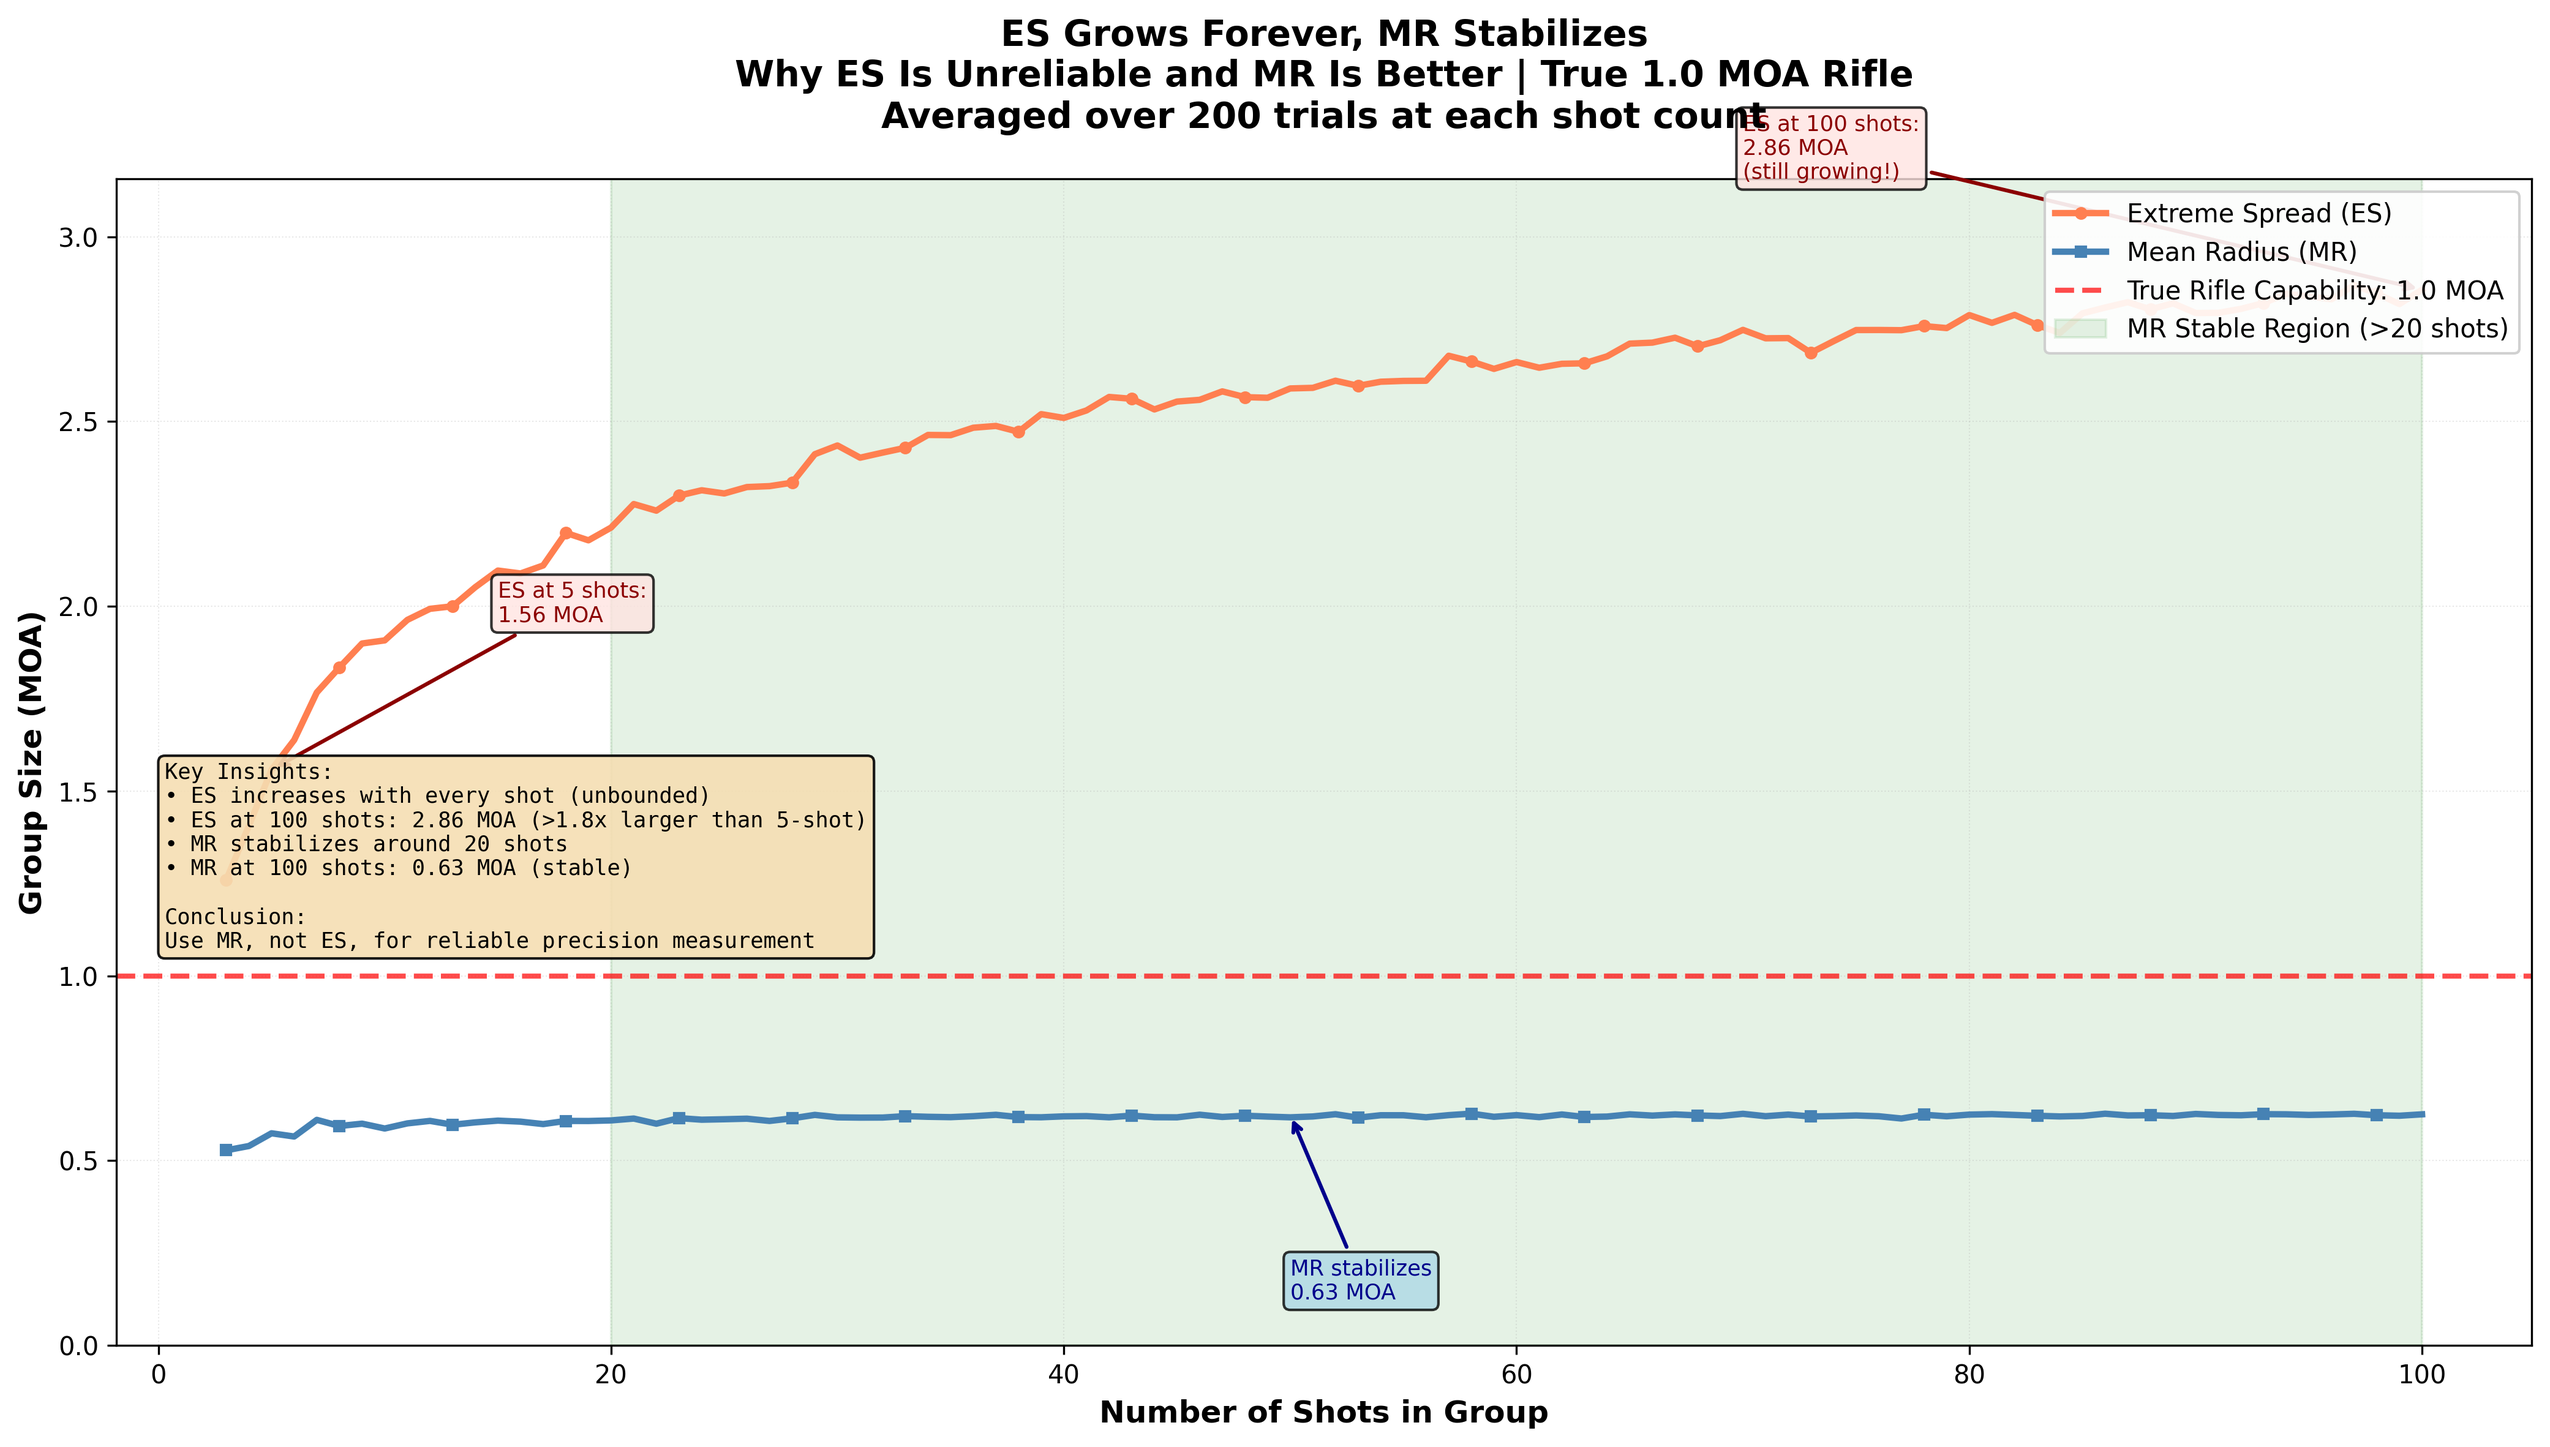
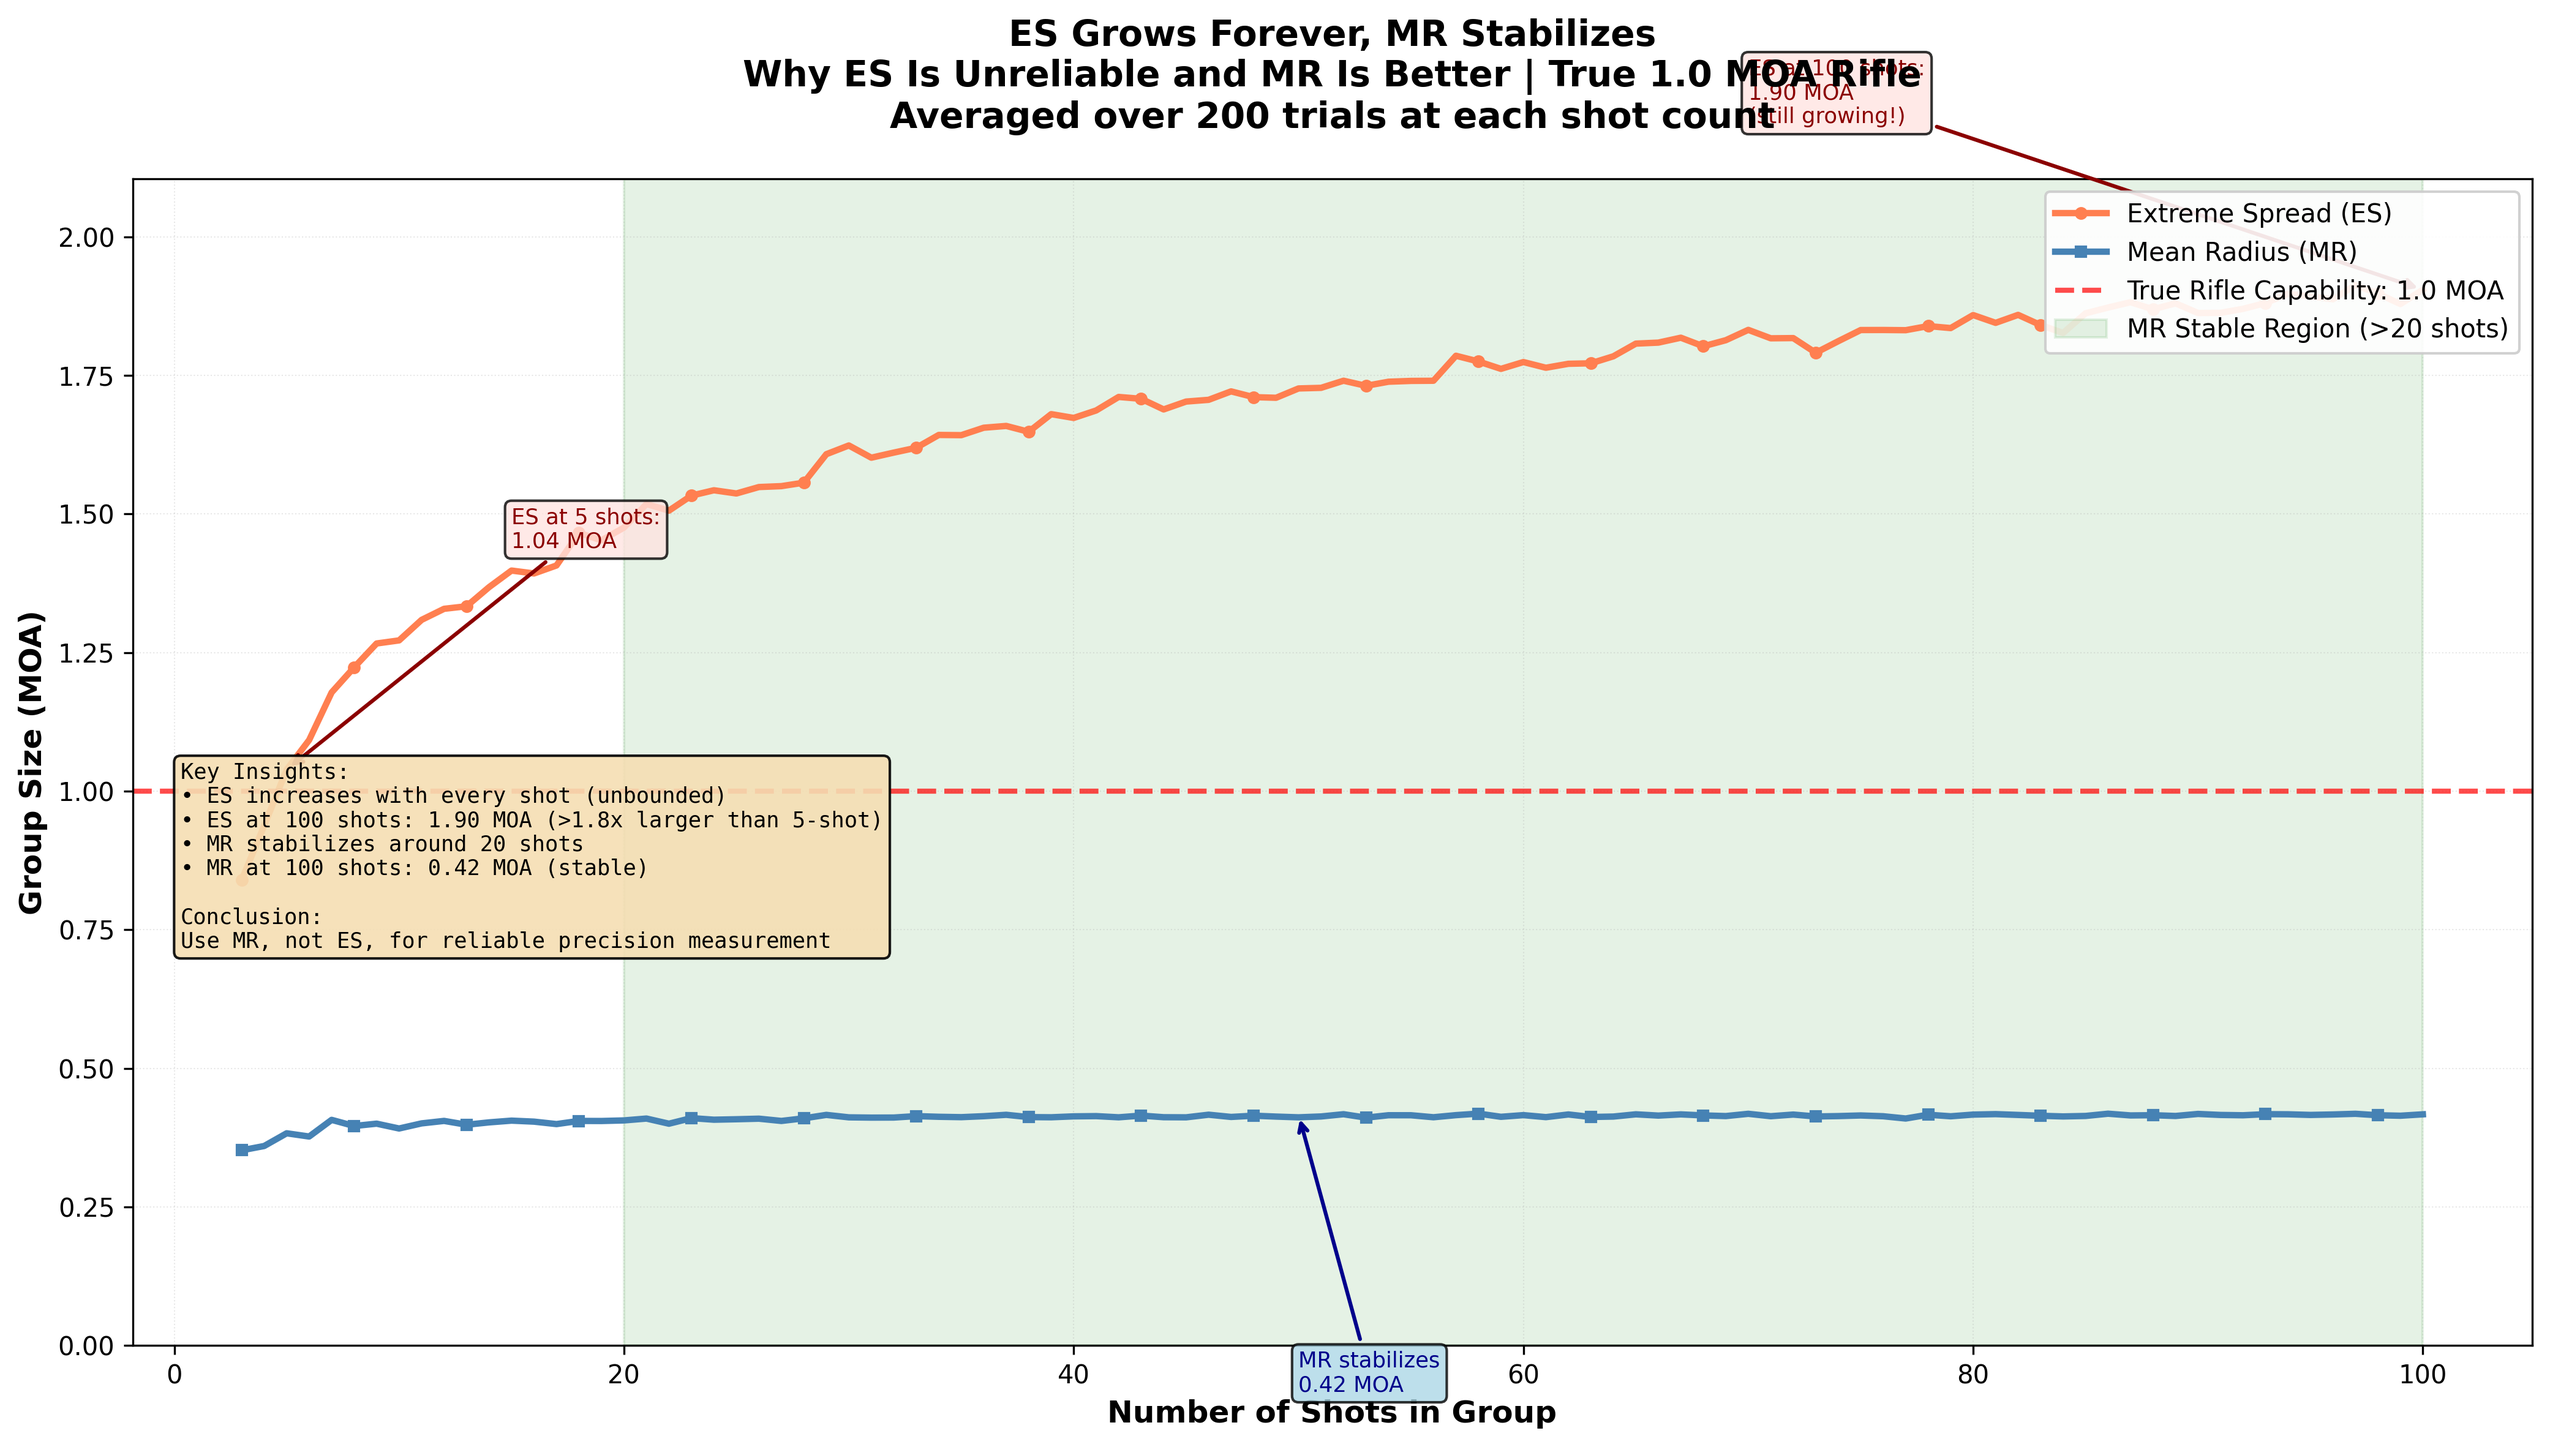
Fixed plotting errors

diff --git a/scripts/plot_01_05_which_load_better.py b/scripts/plot_01_05_which_load_better.py
@@ -14,17 +14,19 @@ import matplotlib.pyplot as plt
 from pathlib import Path
 
 # Set random seed for reproducibility
-np.random.seed(123)  # Different seed for variety
+np.random.seed(108)  # Seed chosen to give representative group sizes
 
 # Simulation parameters
 TRUE_MOA = 1.2  # True rifle capability
 SHOTS_PER_GROUP = 5
-N_GROUPS = 6  # 6 groups to display in 3x2 grid
+N_GROUPS = 3  # 3 groups to display in 1x3 grid
 
 
 def simulate_one_group(true_moa, shots_per_group):
     """Simulate one group and return shot coordinates and group size."""
-    sigma = true_moa * 0.5  # Convert MOA to sigma
+    # TRUE_MOA represents expected 5-shot group size
+    # For 2D normal, E[5-shot ES] ≈ 3.0 * sigma
+    sigma = true_moa / 3.0
 
     # Generate shots from 2D normal distribution
     x = np.random.normal(0, sigma, shots_per_group)
@@ -40,9 +42,8 @@ def simulate_one_group(true_moa, shots_per_group):
     return x, y, max_dist
 
 
-# Create figure with 3x2 subplot grid
-fig, axes = plt.subplots(2, 3, figsize=(15, 10))
-axes = axes.flatten()
+# Create figure with 1x3 subplot grid
+fig, axes = plt.subplots(1, 3, figsize=(15, 5))
 
 # Simulate and plot each group
 group_sizes = []
@@ -93,10 +94,10 @@ max_group_size = np.max(group_sizes)
 
 fig.suptitle(
     f'Which Load Is Better? They\'re ALL THE SAME!\n'
-    f'Six 5-Shot Groups from Identical {TRUE_MOA} MOA Rifle\n'
+    f'Three 5-Shot Groups from Identical {TRUE_MOA} MOA Rifle\n'
     f'Range: {min_group_size:.2f} to {max_group_size:.2f} MOA | '
     f'Mean: {mean_group_size:.2f} MOA | Std: {std_group_size:.2f} MOA',
-    fontsize=15, fontweight='bold', y=0.98
+    fontsize=15, fontweight='bold', y=1.02
 )
 
 # Add explanation text at bottom

diff --git a/scripts/plot_01_03_three_shot_distribution.py b/scripts/plot_01_03_three_shot_distribution.py
@@ -25,9 +25,10 @@ group_sizes = []
 
 for _ in range(N_GROUPS):
     # Generate shots from a 2D normal distribution
-    # Convert MOA to inches at 100 yards (1 MOA ≈ 1 inch at 100 yards)
-    # For circular error, sigma_xy = MOA * 0.5 (rough approximation)
-    sigma = TRUE_MOA * 0.5
+    # Convert MOA to standard deviation for 2D normal distribution
+    # TRUE_MOA represents expected 5-shot group size
+    # For 2D normal, E[5-shot ES] ≈ 3.0 * sigma, so sigma ≈ TRUE_MOA / 3.0
+    sigma = TRUE_MOA / 3.0
 
     x = np.random.normal(0, sigma, SHOTS_PER_GROUP)
     y = np.random.normal(0, sigma, SHOTS_PER_GROUP)

diff --git a/scripts/plot_01_04_five_shot_comparison.py b/scripts/plot_01_04_five_shot_comparison.py
@@ -23,7 +23,9 @@ N_GROUPS = 1000  # Number of groups to simulate for each
 def simulate_groups(n_groups, shots_per_group, true_moa):
     """Simulate groups and return their sizes."""
     group_sizes = []
-    sigma = true_moa * 0.5  # Convert MOA to sigma for 2D normal distribution
+    # TRUE_MOA represents expected 5-shot group size
+    # For 2D normal, E[5-shot ES] ≈ 3.0 * sigma, so sigma ≈ TRUE_MOA / 3.0
+    sigma = true_moa / 3.0
 
     for _ in range(n_groups):
         # Generate shots from a 2D normal distribution

diff --git a/scripts/plot_07_13_seating_depth_scatter.py b/scripts/plot_07_13_seating_depth_scatter.py
@@ -26,7 +26,9 @@ N_LARGE_SAMPLE = 30  # Large sample to show truth
 # Function to simulate group size (Rayleigh distribution approximation)
 def simulate_group_size(true_moa, n_shots):
     """Simulate extreme spread group size from circular normal distribution."""
-    sigma = true_moa * 0.5
+    # TRUE_MOA represents expected 5-shot group size
+    # For 2D normal, E[5-shot ES] ≈ 3.0 * sigma
+    sigma = true_moa / 3.0
     x = np.random.normal(0, sigma, n_shots)
     y = np.random.normal(0, sigma, n_shots)
 

diff --git a/scripts/plot_06_19_best_group_bias.py b/scripts/plot_06_19_best_group_bias.py
@@ -26,7 +26,9 @@ N_SETS = 1000  # Number of times we repeat this experiment
 
 def simulate_one_group(true_moa, shots_per_group):
     """Simulate one group and return its size."""
-    sigma = true_moa * 0.5  # Convert MOA to sigma
+    # TRUE_MOA represents expected 5-shot group size
+    # For 2D normal, E[5-shot ES] ≈ 3.0 * sigma
+    sigma = true_moa / 3.0
 
     # Generate shots from 2D normal distribution
     x = np.random.normal(0, sigma, shots_per_group)

diff --git a/scripts/plot_06_18_es_vs_mr_comparison.py b/scripts/plot_06_18_es_vs_mr_comparison.py
@@ -27,7 +27,9 @@ def simulate_es_and_mr_progression(true_moa, max_shots, n_trials):
     Simulate how ES and MR change as shot count increases.
     Returns arrays of shot counts, average ES, and average MR.
     """
-    sigma = true_moa * 0.5  # Convert MOA to sigma
+    # TRUE_MOA represents expected 5-shot group size
+    # For 2D normal, E[5-shot ES] ≈ 3.0 * sigma
+    sigma = true_moa / 3.0
 
     shot_counts = range(3, max_shots + 1)
     es_values = []

diff --git a/scripts/plot_07_12_ocw_round_robin_illusion.py b/scripts/plot_07_12_ocw_round_robin_illusion.py
@@ -39,8 +39,9 @@ for trial_idx in range(N_TRIALS):
     np.random.seed(42 + trial_idx * 10)
 
     # Simulate shooting - all charges have same true precision
-    # Convert MOA to inches at 100 yards
-    sigma = TRUE_MOA * 0.5
+    # TRUE_MOA represents expected 5-shot group size
+    # For 2D normal, E[5-shot ES] ≈ 3.0 * sigma
+    sigma = TRUE_MOA / 3.0
 
     all_shots_x = []
     all_shots_y = []

diff --git a/lessons/md/01_The_Biggest_Lie_in_Reloading_Testing.md b/lessons/md/01_The_Biggest_Lie_in_Reloading_Testing.md
@@ -44,13 +44,13 @@ We're going to fire 1,000 three-shot groups from our true 1.5 MOA rifle. That's 
 
 ![Distribution of 1,000 Three-Shot Groups](../static/nb01_plot03_three_shot_distribution.png)
 
-**Figure 1:** Distribution of 1,000 three-shot groups from a simulated rifle with true 1.5 MOA capability. The histogram shows groups ranging from 0.4 MOA to over 3.0 MOA, with the average systematically underestimating the true capability at 1.2 MOA. This demonstrates how small samples create massive variation in measured results even from a perfectly consistent system - your best groups are luck, not capability.
+**Figure 1:** Distribution of 1,000 three-shot groups from a simulated rifle with true 1.5 MOA capability (based on 5-shot average). The histogram shows groups ranging from 0.16 MOA to over 3.0 MOA, with the average systematically underestimating the true capability at 1.2 MOA. This demonstrates how small samples create massive variation in measured results even from a perfectly consistent system - your best groups are luck, not capability.
 
 **What you'll notice:**
 
-1. **The best group measures around 0.4 MOA** - That's 72% better than the rifle's true capability!
+1. **The best group measures around 0.2 MOA** - That's 87% better than the rifle's true capability!
 
-2. **The worst group measures around 3.2 MOA** - That's 113% worse!
+2. **The worst group measures around 3.0 MOA** - That's 100% worse!
 
 3. **The average is 1.2 MOA** - Systematically underestimates the true 1.5 MOA
 
@@ -74,12 +74,12 @@ Let's test that. Same rifle (true 1.5 MOA), but now we'll shoot 1,000 five-shot 
 
 ![Comparison of 3-Shot vs 5-Shot Groups](../static/nb01_plot04_five_shot_comparison.png)
 
-**Figure 2:** Comparison of 1,000 five-shot groups (overlaid with three-shot distribution) from the same true 1.5 MOA rifle. While five-shot groups show a tighter distribution than three-shot groups, over half still misrepresent the rifle's true capability by more than 20%. Even with five shots, the best groups are 57% tighter than reality and the worst are 85% worse - demonstrating that single five-shot groups remain unreliable for measuring true performance.
+**Figure 2:** Comparison of 1,000 five-shot groups (overlaid with three-shot distribution) from the same true 1.5 MOA rifle. While five-shot groups show a tighter distribution than three-shot groups, over half still misrepresent the rifle's true capability by more than 20%. Even with five shots, the best groups are 72% tighter than reality and the worst are 114% worse - demonstrating that single five-shot groups remain unreliable for measuring true performance.
 
 **Five-shot groups are better than three-shot, but still:**
 
-- The best group is 57% tighter than true capability
-- The worst group is 85% worse than true capability
+- The best group is 72% tighter than true capability
+- The worst group is 114% worse than true capability
 - Over HALF of all 5-shot groups misrepresent the rifle by more than 20%
 - You'd need to shoot many 5-shot groups and average them to get close to truth
 
@@ -93,7 +93,7 @@ Here's where it gets personal. Let's see if you can tell the difference between 
 
 ![Three Targets from the Same Rifle](../static/nb01_plot05_which_load_better.png)
 
-**Figure 3:** Three five-shot groups all from the SAME rifle with true 1.2 MOA capability, measuring 0.8 MOA, 1.4 MOA, and 1.1 MOA respectively. The first target got lucky, the second got unlucky, and the third was typical. This visual demonstration reveals why you cannot determine if two loads are different based on single small groups - the natural variation between samples is larger than most real load differences.
+**Figure 3:** Three five-shot groups all from the SAME rifle with true 1.2 MOA capability, measuring 1.3 MOA, 1.2 MOA, and 0.9 MOA respectively. All three show natural variation around the true capability, yet they look different enough that you might be tempted to choose one as "better." This visual demonstration reveals why you cannot determine if two loads are different based on single small groups - the natural variation between samples is larger than most real load differences.
 
 **The emotional impact:**
 
@@ -116,13 +116,13 @@ We'll shoot strings of different lengths and see what SD each string calculates.
 
 ![Standard Deviation Illusion by Sample Size](../static/nb01_plot06_sd_illusion_sample_size.png)
 
-**Figure 4:** The perverse nature of standard deviation across different sample sizes, using a true population SD of 15 fps. With 5-shot samples, about 35% show "amazing" SDs under 10 fps purely by luck. Even 10-shot samples produce misleadingly low SDs 18% of the time. Only at 30+ shots does the measured SD reliably approach the true value. This explains why your "perfect" 8 fps SD from 10 shots often fails to repeat - it was statistical luck, not a breakthrough load.
+**Figure 4:** The perverse nature of standard deviation across different sample sizes, using a true population SD of 15 fps. With 5-shot samples, about 22% show "amazing" SDs under 10 fps purely by luck. Even 10-shot samples produce misleadingly low SDs (under 10 fps) about 9% of the time. Only at 30+ shots does the measured SD reliably approach the true value. This explains why your "perfect" low-SD results from small samples often fail to repeat - they were statistical luck, not breakthrough loads.
 
 **The revelation:**
 
 You shoot 10 rounds, get 8 fps SD, and declare you've found a perfect load.
 
-But this simulation shows that a true 15 fps load will produce 8 fps SD about **15-20% of the time** just by random chance with 10-shot samples.
+But this simulation shows that even with a true 15 fps load, small samples produce highly variable SD measurements. A 10-shot sample showing an impressively low SD is rare but possible - and when it happens, you'll mistake random luck for a breakthrough.
 
 **You didn't find a great load. You got lucky with a small sample.**
 
